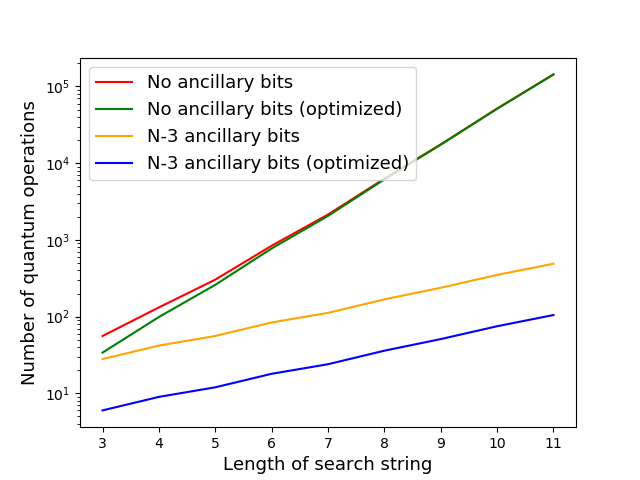
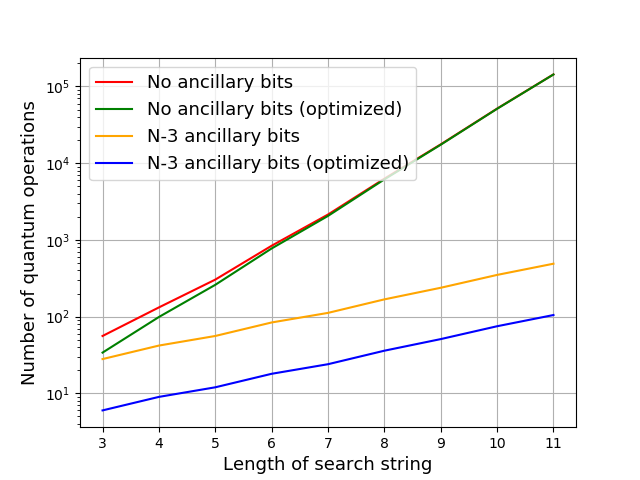
Improve SAT expression generation and plots

diff --git a/create_plots.py b/create_plots.py
@@ -35,87 +35,110 @@ plt.plot(x_values, unopt_fancy_values, c="red", ls="-", label="No ancillary bits
 plt.plot(x_values, opt_fancy_values, c="green", ls="-", label="No ancillary bits (optimized)")
 plt.plot(x_values, unopt_norm_values, c="orange", ls="-", label="N-3 ancillary bits")
 plt.plot(x_values, opt_norm_values, c="blue", ls="-", label="N-3 ancillary bits (optimized)")
-plt.legend(fontsize=FONTSIZE_LEGEND)
+plt.legend(fontsize=FONTSIZE_LEGEND, loc="upper left")
+plt.grid()
 
 plt.savefig("plots/4_impl.png")
 plt.show()
 
 
 # SAT VS CLASSICAL PLOT
-bool_expression = "(a and b)"
 x_values = []
-sat_values = []
-classical_values = []
-qubit_counts = []
+sat_values_normal = []
+sat_values_fancy = []
+classical_values_exhaustive = []
+classical_values_decent = []
 
-for i in range(3, 12):
+qubit_counts_normal = []
+qubit_counts_fancy = []
+
+for i in range(2, 17):
     x_values.append(i)
 
-    bool_expression = "(" + bool_expression + " and {})".format(chr(96+i))
-    _, sat_val, qubit_count, _ = grover_sat_qasm(bool_expression, "no toffoli")
+    group_count = 4
+    group_size = i
+    alphabet_size = i
+    bool_expression = generate_ksat_expression(group_count, group_size, alphabet_size)
+    _, sat_val_normal, qubit_count_normal, _ = grover_sat_qasm(bool_expression, "normal", sat_mode="normal")
+    _, sat_val_fancy, qubit_count_fancy, _ = grover_sat_qasm(bool_expression, "normal", sat_mode="fancy")
 
-    sat_values.append(sat_val)
-    qubit_counts.append(qubit_count)
-    classical_values.append((2 ** i) * i)
+    sat_values_normal.append(sat_val_normal)
+    sat_values_fancy.append(sat_val_fancy)
+    qubit_counts_normal.append(qubit_count_normal)
+    qubit_counts_fancy.append(qubit_count_fancy)
 
-fig, ax1 = plt.subplots()
+    operation_count = bool_expression.count("or") + bool_expression.count("not") + bool_expression.count("and")
+    classical_values_exhaustive.append((2 ** alphabet_size) * operation_count)
+    classical_values_decent.append((2 * (1 - 1/group_size)) ** alphabet_size * 5)
+
+fig, (ax1, ax2) = plt.subplots(nrows=2, gridspec_kw={'height_ratios': [2, 1]})
+fig.set_figheight(7)
 
 # plt.title("Scaling of classical vs quantum SAT solving")
-plt.yscale("log")
-ax1.set_xlabel("Number of boolean variables", fontsize=FONTSIZE_AXES)
+ax1.set_yscale("log")
+ax1.set_xlabel("Clause size (k) for k-SAT problem", fontsize=FONTSIZE_AXES)
 ax1.set_ylabel("Number of operations", fontsize=FONTSIZE_AXES)
-ax1.plot(x_values, classical_values, c="red", ls="-", label="Classical (exhaustive) SAT Solver")
-ax1.plot(x_values, sat_values, c="blue", ls="-", label="SAT Solver using Grover (optimized)")
+ax1.plot(x_values, sat_values_fancy, c="orange", ls="-", label="Grover (few ancillary bits)")
+ax1.plot(x_values, sat_values_normal, c="blue", ls="-", label="Grover (many ancillary bits)")
+ax1.plot(x_values, classical_values_exhaustive, c="red", ls="-", label="Classical (exhaustive)")
+ax1.plot(x_values, classical_values_decent, c="purple", ls="-", label="Classical (optimal)")
+ax1.grid()
 
-# ax2 = ax1.twinx()
-# ax2.plot(x_values, qubit_counts, c="green", ls="--", label="Number of qubits required for Grover")
+ax2.set_yscale("linear")
+ax2.set_xlabel("Clause size (k) for k-SAT problem", fontsize=FONTSIZE_AXES)
+ax2.set_ylabel("Number of qubits", fontsize=FONTSIZE_AXES)
+ax2.plot(x_values, qubit_counts_normal, c="blue", ls="--", label="Grover (many ancillary bits)")
+ax2.plot(x_values, qubit_counts_fancy, c="orange", ls="--", label="Grover (few ancillary bits)")
+ax2.grid()
 
-ax1.legend(fontsize=FONTSIZE_LEGEND)
-# ax2.legend(loc="lower right")
+ax1.legend(fontsize=FONTSIZE_LEGEND, loc="upper left")
+ax2.legend(fontsize=FONTSIZE_LEGEND, loc="upper left")
 plt.savefig("plots/sat_scaling.png")
 plt.show()
 
 
 # NAIVE VS SMART MULTI-ELEMENT SEARCH
-searchables = [
-    "00000001" + 3 * "1",
-    "00000010" + 3 * "1",
-    "00000100" + 3 * "1",
-    "00001000" + 3 * "1",
-    "00010000" + 3 * "1",
-    "00100000" + 3 * "1",
-    "01000000" + 3 * "1",
-    "10000000" + 3 * "1",
-    "10000001" + 3 * "1",
-    "10000010" + 3 * "1",
-    "10000100" + 3 * "1",
-    "10001000" + 3 * "1",
-    "10010000" + 3 * "1",
-    "10100000" + 3 * "1",
-    "11000000" + 3 * "1"
-]
+
+iterations = 40
+x_size = 10
 
 x_values = []
-naive_values = []
-smart_values = []
+avg_naive_values = []
+avg_smart_values = []
 
-for i in range(1, len(searchables)):
+for i in range(1, x_size + 1):
     x_values.append(i)
-    to_search = searchables[:i]
-    naive_count = 0
-    for t in to_search:
-        naive_count += grover_search_qasm([t], "no toffoli")[1]
-    naive_values.append(naive_count)
+    avg_naive_values.append(0)
+    avg_smart_values.append(0)
 
-    multi_count = grover_search_qasm(to_search, "no toffoli")[1]
-    smart_values.append(multi_count)
+for j in range(iterations):
+    searchables = [
+        "".join([random.choice("01") for i in range(10)])
+        for _ in range(x_size+1)
+    ]
+
+    naive_values = []
+    smart_values = []
+
+    for i in range(1, len(searchables)):
+        to_search = searchables[:i]
+        naive_count = 0
+        for t in to_search:
+            naive_count += grover_search_qasm([t], "no toffoli")[1]
+        avg_naive_values[i-1] += naive_count / iterations
+
+        multi_count = grover_search_qasm(to_search, "no toffoli")[1]
+        avg_smart_values[i-1] += multi_count / iterations
+
 
 # plt.title("Naive vs optimal multi-element search")
 plt.xlabel("Number of search elements", fontsize=FONTSIZE_AXES)
 plt.ylabel("Number of quantum operations", fontsize=FONTSIZE_AXES)
-plt.plot(x_values, naive_values, c="orange", ls="-", label="Naive multi-element search")
-plt.plot(x_values, smart_values, c="blue", ls="-", label="Optimal multi-element search")
-plt.legend(fontsize=FONTSIZE_LEGEND)
+plt.plot(x_values, avg_naive_values, c="orange", ls="-", label="Naive multi-element search")
+plt.plot(x_values, avg_smart_values, c="blue", ls="-", label="Optimal multi-element search")
+plt.legend(fontsize=FONTSIZE_LEGEND, loc="upper left")
+plt.xticks(list(range(1, 11)))
+plt.grid()
 
 plt.savefig("plots/naive_opt_mult_search.png")
 plt.show()
@@ -148,10 +171,6 @@ for qubits, runtimes in result_lists.items():
     std = np.std(runtimes)
 
     filtered_runtimes = list(filter(lambda value: value < avg + std, runtimes))
-    print(avg, std)
-    print(runtimes)
-    print(filtered_runtimes)
-    print()
     filtered_avg = sum(filtered_runtimes) / len(filtered_runtimes)
 
     x_values.append(qubits)
@@ -164,7 +183,8 @@ plt.yscale("log")
 plt.plot(x_values, maxs, "r-", label="Maximum runtime")
 plt.plot(x_values, filtered_avgs, "b-", label="Average runtime")
 plt.plot(x_values, mins, "g-", label="Minimum runtime")
-plt.legend(fontsize=FONTSIZE_LEGEND)
+plt.legend(fontsize=FONTSIZE_LEGEND, loc="upper left")
+plt.grid()
 
 # plt.title("Speed of quantum simulation of Grover's search")
 plt.xlabel("Length of search string", fontsize=FONTSIZE_AXES)

diff --git a/src/grover/run_grover.py b/src/grover/run_grover.py
@@ -4,13 +4,14 @@ from src.grover.sat_utilities import *
 import math
 
 
-def grover_sat_qasm(expr_string, mode, apply_optimization=True):
+def grover_sat_qasm(expr_string, cnot_mode, sat_mode="fancy", apply_optimization=True):
     """
     Generate the QASM needed to evaluate the SAT problem for a given boolean expression.
 
     Args:
         expr_string: A boolean expression as a string
-        mode: The mode for CNOTs (see main.py)
+        cnot_mode: The mode for CNOTs (see main.py)
+        sat_mode: The mode for the SAT solving circuit
         apply_optimization: Whether to apply the optimization algorithm
 
     Returns: A tuple of the following values:
@@ -30,13 +31,17 @@ def grover_sat_qasm(expr_string, mode, apply_optimization=True):
 
     expr = split_expression_evenly(expr)
 
-    # oracle_qasm, _, last_qubit_index = generate_sat_oracle(expr, control_names, True)
-    _, oracle_qasm, last_qubit_index = generate_fancy_sat_oracle(expr, [], control_names, is_toplevel=True)
+    if sat_mode == "normal":
+        oracle_qasm, _, last_qubit_index = generate_sat_oracle(expr, control_names, is_toplevel=True)
+    elif sat_mode == "fancy":
+        _, oracle_qasm, last_qubit_index = generate_fancy_sat_oracle(expr, [], control_names, is_toplevel=True)
+    else:
+        raise ValueError("Invalid SAT mode: {} instead of 'normal' or 'fancy'".format(sat_mode))
 
     qubit_count = last_qubit_index + 1
 
     # some modes may require many ancillary qubits for the diffusion operator!
-    if mode in ["normal", "no toffoli"]:
+    if cnot_mode in ["normal", "no toffoli"]:
         qubit_count = max(qubit_count, data_qubits * 2 - 3)
 
     qasm = "version 1.0\n" \
@@ -54,7 +59,7 @@ def grover_sat_qasm(expr_string, mode, apply_optimization=True):
     # diffusion
     qasm += fill("H", data_qubits)
     qasm += fill("X", data_qubits)
-    qasm += cnot_pillar(mode, data_qubits)
+    qasm += cnot_pillar(cnot_mode, data_qubits)
     qasm += fill("X", data_qubits)
     qasm += fill("H", data_qubits)
 

diff --git a/src/grover/sat_utilities.py b/src/grover/sat_utilities.py
@@ -1,5 +1,6 @@
 import boolean
 from boolean.boolean import AND, OR, NOT, Symbol
+import random
 
 
 def generate_sat_oracle(expr: boolean.Expression, control_names, is_toplevel=False):
@@ -85,7 +86,7 @@ def split_expression_evenly(expr):
         if len(expr.args) > 3:
             left_expanded = split_expression_evenly(expr_type(*expr.args[:halfway]))
         else:
-            left_expanded = expr.args[0]
+            left_expanded = split_expression_evenly(expr.args[0])
 
         return expr_type(left_expanded, right_expanded)
     elif len(expr.args) == 2:
@@ -147,3 +148,37 @@ def generate_fancy_sat_oracle(expr, avoid, control_names, last_qubit=-1, is_topl
     ])
 
     return target_line, qasm, last_qubit
+
+
+def generate_ksat_expression(n, m, k):
+    """
+    Generate an arbitrary k-SAT expression according to the given parameters.
+
+    Args:
+        n: The number of groups
+        m: The number of variables in a group
+        k: The number of variables
+
+    Returns: A Boolean expression
+    """
+
+    if m > k:
+        raise ValueError("m > k not possible for kSAT")
+
+    alphabet = []
+    for i in range(k):
+        alphabet.append(chr(97+i))
+
+    expression = ""
+
+    for i in range(n):
+        literals = random.sample(alphabet, m)
+        expression += " and ({}".format(literals[0])
+        for l in literals[1:]:
+            if random.random() < 0.5:
+                expression += " or not({})".format(l)
+            else:
+                expression += " or {}".format(l)
+        expression += ")"
+
+    return expression.lstrip("and ")

diff --git a/main.py b/main.py
@@ -37,7 +37,13 @@ MODE = "normal"
 
 # SAT example
 
-BOOL_EXPR = "(a and b and c and d) or (a and b and not(c) and not(d))"
-
-qasm, _, qubit_count, data_qubits = grover_sat_qasm(BOOL_EXPR, MODE)
+# BOOL_EXPR = "(a and b and c and d) or (a and b and not(c) and not(d))"
+# BOOL_EXPR = generate_ksat_expression(4, 5, 5)
+# BOOL_EXPR = "(c or not(d) or a or not(b) or not(e)) and (c or not(e) or not(a) or not(b) or d) and (a or e or b or not(d) or c) and (b or a or not(c) or e or d)"
+BOOL_EXPR = "(a and b) and (a and b)"
+qasm, _, qubit_count, data_qubits = grover_sat_qasm(BOOL_EXPR, MODE, sat_mode="normal")
+print(qasm)
+# write_file = open("qasms/latest_sat.qasm", "w")
+# write_file.write(qasm)
+# write_file.close()
 execute_sat_qasm(qi, qasm, SHOT_COUNT, backend, qubit_count, data_qubits, True)
